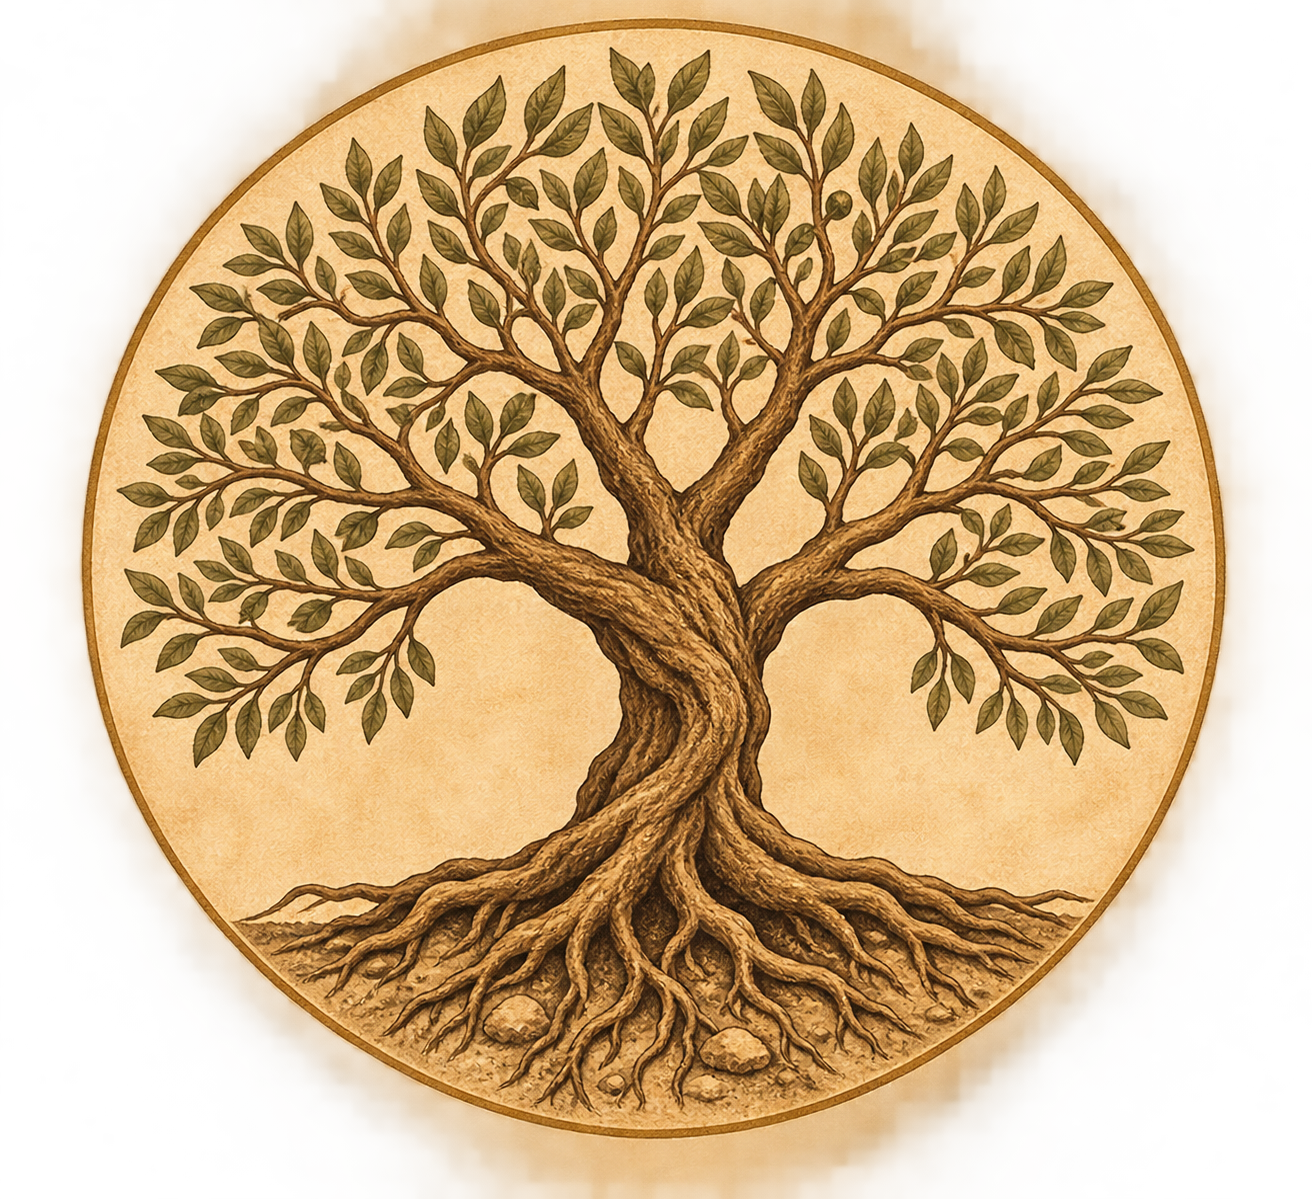
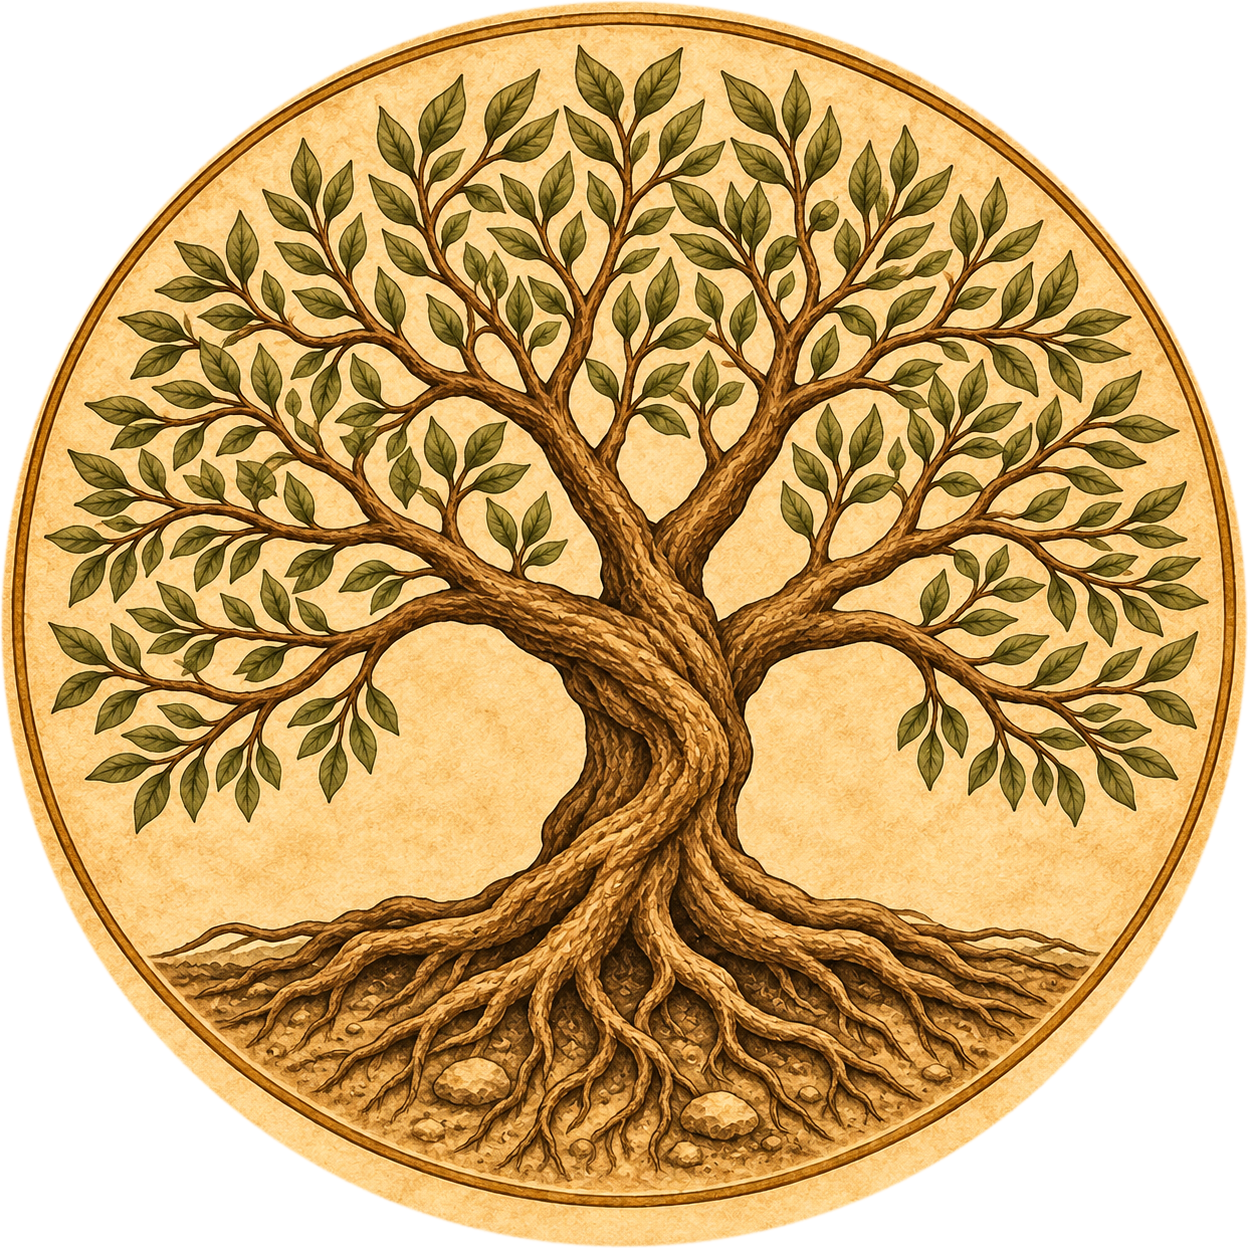
Use the larger tree of life medallion
The new 1254 px artwork, cut to the same transparent circle as before,
replaces tree-of-life-medallion everywhere (group counseling, Services
approach, favicons). The uncropped source is kept in
assets/images/original/sources/. optimize-images.sh now crops the
favicon square from whatever size the medallion is. Blog posts get the
baseurl added to root-relative links and images, so they work while the
site is served from a sub-folder.

diff --git a/theme/_layouts/post.html b/theme/_layouts/post.html
@@ -26,8 +26,19 @@ layout: default
   </figure>
   {%- endif %}
   <div class="container container--narrow prose post__body">
-    {%- comment -%} Editors such as Obsidian write image paths without the leading slash. {%- endcomment %}
-    {{ content | replace: 'src="assets/', 'src="/assets/' | replace: 'src="../assets/', 'src="/assets/' }}
+    {%- comment -%}
+      Editors such as Obsidian write image paths without the leading slash, and
+      links like /services/… need the baseurl when the site lives in a sub-folder.
+    {%- endcomment %}
+    {%- assign body = content | replace: 'src="assets/', 'src="/assets/' | replace: 'src="../assets/', 'src="/assets/' %}
+    {%- if site.baseurl != "" %}
+    {%- assign base_href = 'href="' | append: site.baseurl | append: '/' %}
+    {%- assign base_src = 'src="' | append: site.baseurl | append: '/' %}
+    {%- assign body = body | replace: 'href="/', base_href | replace: 'src="/', base_src %}
+    {%- assign base_double = site.baseurl | append: '//' %}
+    {%- assign body = body | replace: base_double, '//' %}
+    {%- endif %}
+    {{ body }}
   </div>
   {%- if page.previous or page.next %}
   <nav class="container container--narrow post-nav" aria-label="More posts">
